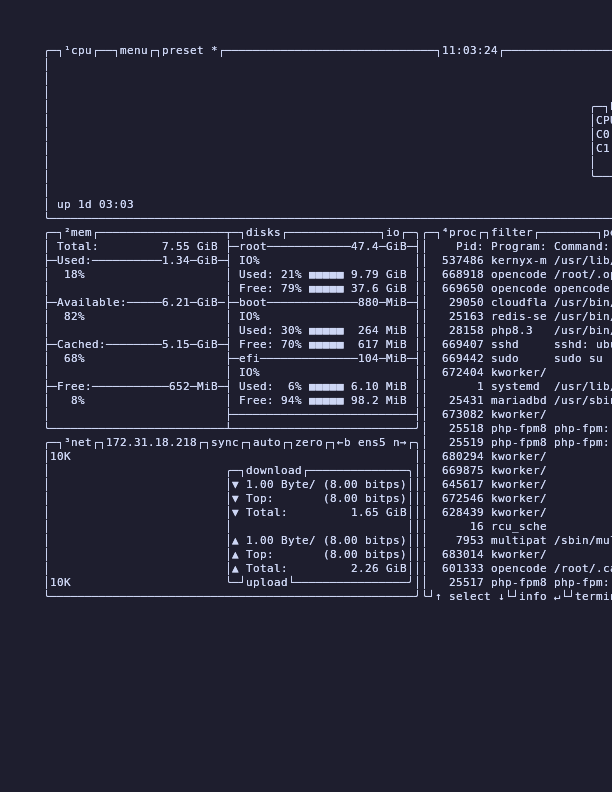
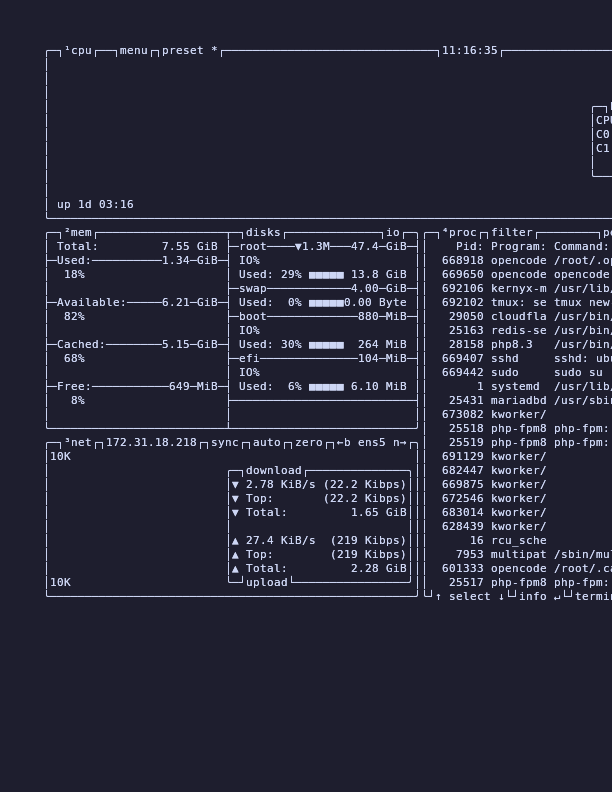
Prevent btop 100% CPU on non-TTY and add monitor screenshot

diff --git a/src/monitor.rs b/src/monitor.rs
@@ -1,6 +1,22 @@
+use std::io::IsTerminal;
 use std::process::Command;
 
 pub fn run() -> anyhow::Result<()> {
+    if !std::io::stdout().is_terminal() || !std::io::stdin().is_terminal() {
+        return Err(anyhow::anyhow!(
+            "kernyx monitor requires an interactive terminal (TTY)."
+        ));
+    }
+
+    // btop can spin at 100% CPU when the terminal reports a zero size.
+    // Refuse to start in that case instead of launching a runaway process.
+    let (rows, cols) = terminal_size();
+    if rows == 0 || cols == 0 {
+        return Err(anyhow::anyhow!(
+            "terminal size could not be determined; resize the window and retry."
+        ));
+    }
+
     let candidates = [
         "/usr/lib/kernyx/kernyx-monitor",
         "target/btop/kernyx-monitor",
@@ -21,4 +37,23 @@ pub fn run() -> anyhow::Result<()> {
     Err(anyhow::anyhow!(
         "Bundled monitor binary not found. Reinstall the kernyx package."
     ))
+}
+
+fn terminal_size() -> (u16, u16) {
+    #[repr(C)]
+    struct WinSize {
+        ws_row: u16,
+        ws_col: u16,
+        ws_xpixel: u16,
+        ws_ypixel: u16,
+    }
+    let mut ws: WinSize = unsafe { std::mem::zeroed() };
+    const TIOCGWINSZ: libc::c_ulong = 0x5413;
+    unsafe {
+        if libc::ioctl(0, TIOCGWINSZ, &mut ws) == 0 {
+            (ws.ws_row, ws.ws_col)
+        } else {
+            (0, 0)
+        }
+    }
 }
